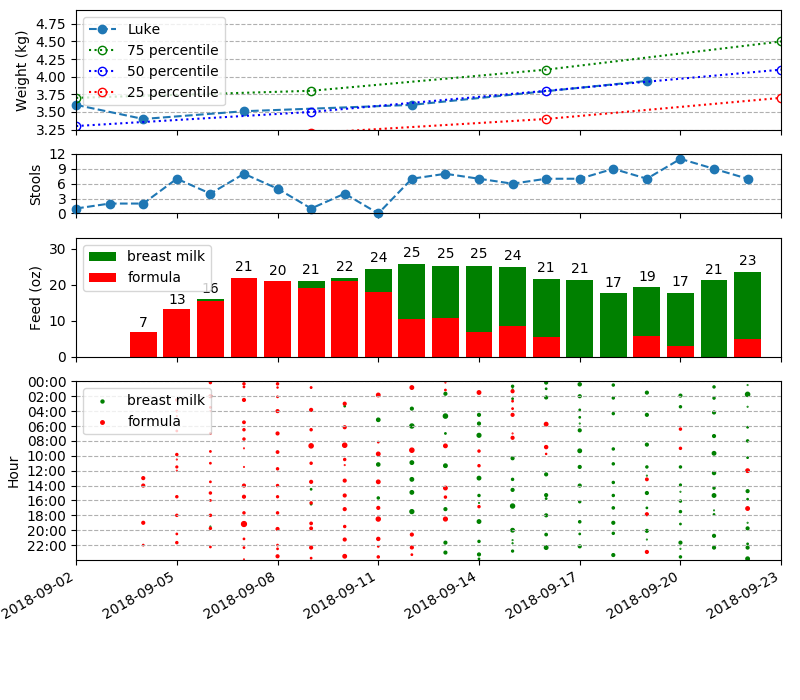
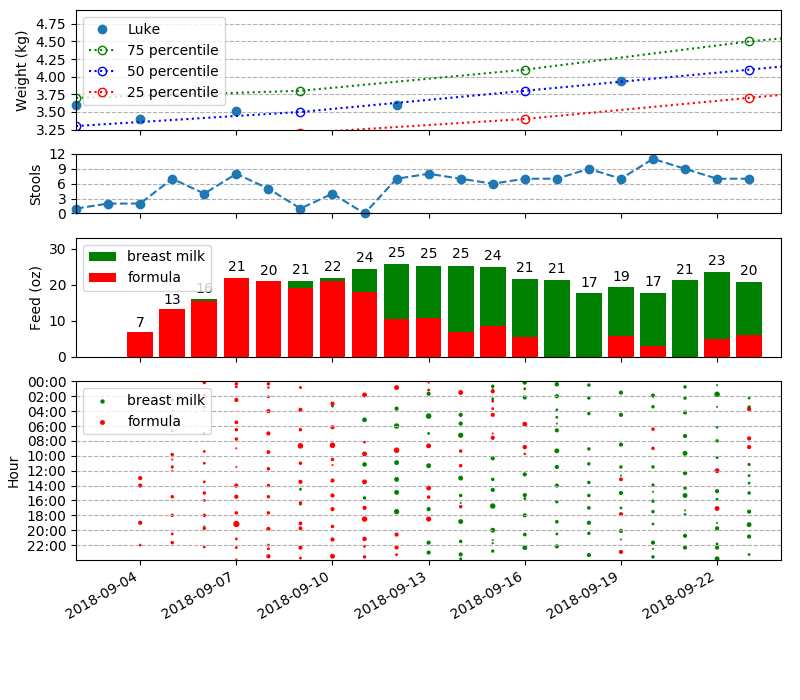
enhance commandline tool

diff --git a/src/lognow.py b/src/lognow.py
@@ -1,4 +1,10 @@
 import argparse
+import os
+import pandas as pd
+import numpy as np
+from datetime import datetime
+
+import utils
 
 
 def add_weight(args):
@@ -6,15 +12,40 @@ def add_weight(args):
 
 
 def add_feed(args):
-    args
+    now = datetime.now().strftime('%Y-%m-%dT%H:%M')
+    with open(utils.fullpath('feed.csv'), 'a') as f:
+        f.write(f'{now},{args.volume},{int(not args.formula)}')
 
 
 def add_stool(args):
-    args
+    today = datetime.today().strftime('%Y-%m-%d')
+    with open(utils.fullpath('weight_stool.csv'), 'r+') as f:
+        lines = f.readlines()
+        last_day, last_weight, count = lines[-1].split(',')
+        if last_day == today:
+            update = f'{today},{last_weight},{int(count)+1}'
+            lines[-1] = update
+            f.seek(0, os.SEEK_SET)
+            f.writelines(lines)
+        else:
+            f.write(f'{today},,1')
 
 
 def show(args):
-    args
+    with open(utils.fullpath('weight_stool.csv'), 'r') as f:
+        print('stool:')
+        for line in f.readlines()[-args.days:]:
+            print(line, end='')
+
+    df = utils.load_feedings()
+    by_date = pd.pivot_table(
+        df,
+        values='Vol',
+        index=df.index.date,
+        columns=['BM'],
+        aggfunc=np.sum,
+        fill_value=0)
+    print(by_date.tail(args.days))
 
 
 def main(argv=None):
@@ -31,13 +62,11 @@ def main(argv=None):
     p_feed.set_defaults(func=add_feed)
 
     p_stool = subparsers.add_parser('stool', help='add stool count')
-    p_stool.add_argument('count', type=int, default=1, help='stool count')
     p_stool.set_defaults(func=add_stool)
 
     p_show = subparsers.add_parser('show', help='show log')
-    p_show.add_argument('date', nargs='?', help='')
+    p_show.add_argument('days', nargs='?', type=int, default=1, help='')
     p_show.set_defaults(func=show)
-
 
     args = p.parse_args(argv)
     print(args)

diff --git a/src/analyze.py b/src/analyze.py
@@ -6,8 +6,8 @@ import pandas as pd
 import numpy as np
 import datetime
 import matplotlib
-
 matplotlib.use('agg')  # for ChromeOS
+
 import matplotlib.pyplot as plt
 from matplotlib import gridspec
 #import matplotlib.dates as md
@@ -15,15 +15,7 @@ from matplotlib import gridspec
 import utils
 
 # ------------- load data ---------------------------------
-data_type = {'BM': bool}
-df1 = pd.read_csv(
-    utils.fullpath('feed.csv'),
-    dtype=data_type,
-    index_col=0,
-    parse_dates=[0],
-    skipinitialspace=True,
-    keep_default_na=False)
-df1.rename(columns={'Volume (oz)': 'Vol'}, inplace=True)
+df1 = utils.load_feedings()
 
 df2 = pd.read_csv(
     utils.fullpath('weight_stool.csv'),
@@ -60,7 +52,7 @@ plt.ylim([0, max(df2.Stool.values) + 1])
 # ----------- plot weight change -----------------------
 ax1 = fig.add_subplot(gs[0], sharex=ax2)
 weight = df2.Weight.dropna()
-plt.plot(weight.index.date, weight.values, 'o--', clip_on=False, label='Luke')
+plt.plot(weight.index.date, weight.values, 'o', clip_on=False, label='Luke')
 plt.ylabel('Weight (kg)')
 utils.set_y_major(0.25)
 ax1.grid(True, axis='y', linestyle='--')

diff --git a/src/utils.py b/src/utils.py
@@ -1,4 +1,7 @@
+import pandas as pd
 from pathlib import Path
+import matplotlib
+matplotlib.use('agg')  # for ChromeOS
 import matplotlib.pyplot as plt
 import matplotlib.ticker as plticker
 
@@ -30,3 +33,18 @@ def fullpath(fname):
     return full path of the data file
     """
     return Path(__file__).parent.parent / 'data' / fname
+
+
+def load_feedings():
+    data_type = {'BM': bool}
+    df = pd.read_csv(
+        fullpath('feed.csv'),
+        dtype=data_type,
+        index_col=0,
+        parse_dates=[0],
+        skipinitialspace=True,
+        keep_default_na=False)
+    df.rename(columns={'Volume (oz)': 'Vol'}, inplace=True)
+    return df
+
+

diff --git a/README.md b/README.md
@@ -3,7 +3,7 @@
 To generate the figure below, run
 
 ```bash
-python3 analyze.py
+python3 src/analyze.py
 ```
 
 The World Health Organization (WHO) weight guideline can be downloaded [here](http://www.who.int/childgrowth/standards/weight_for_age/en/).
